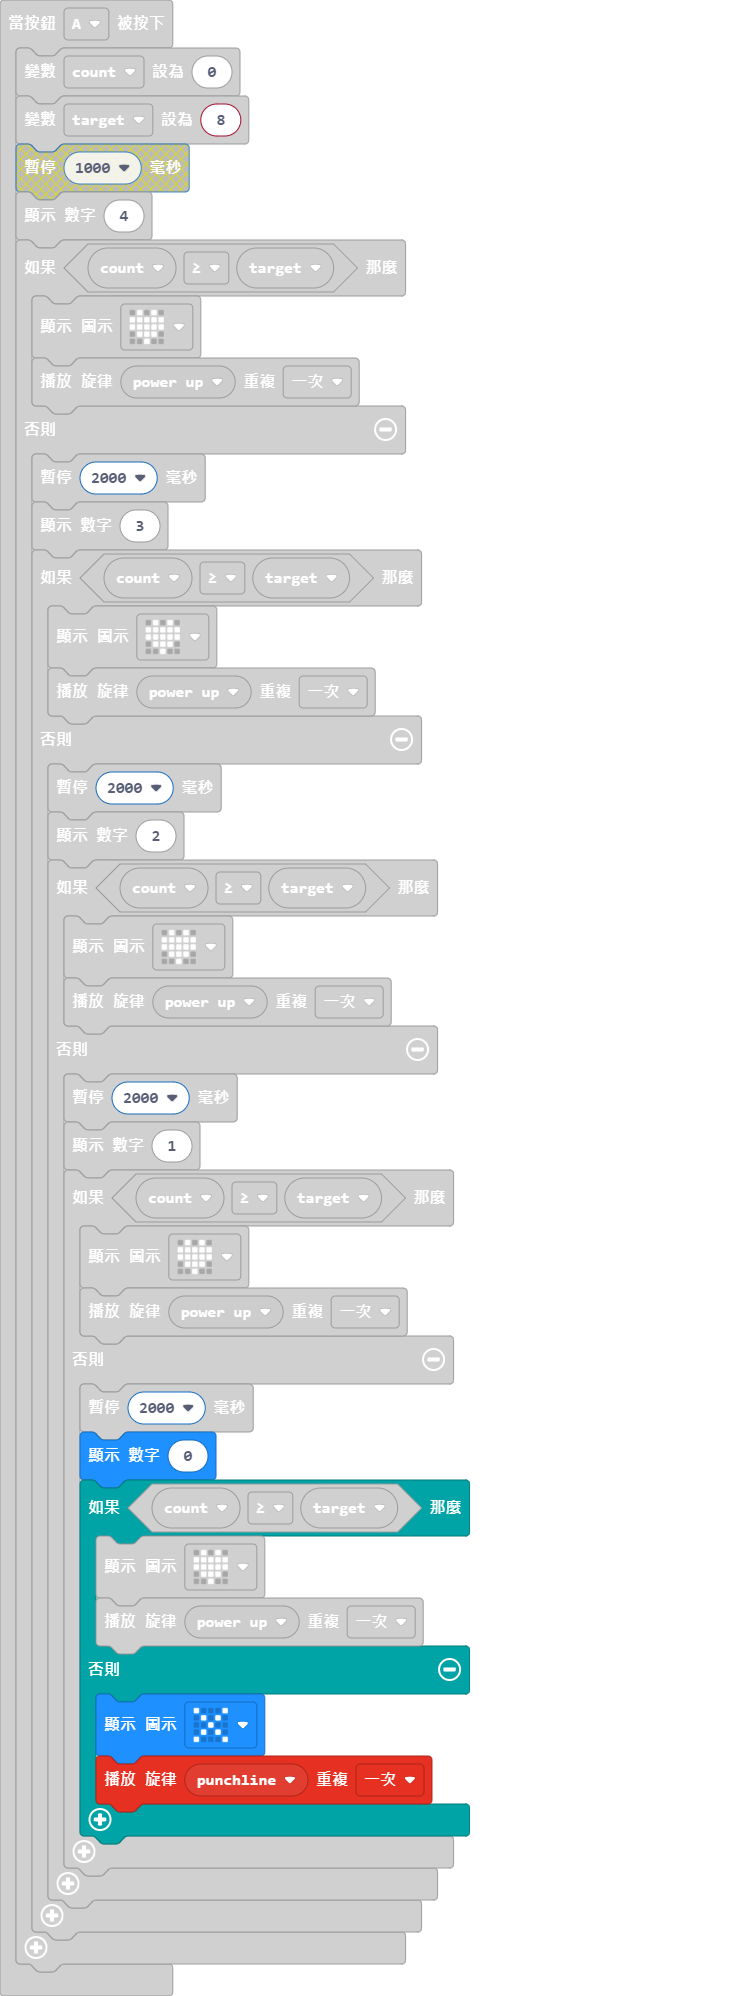
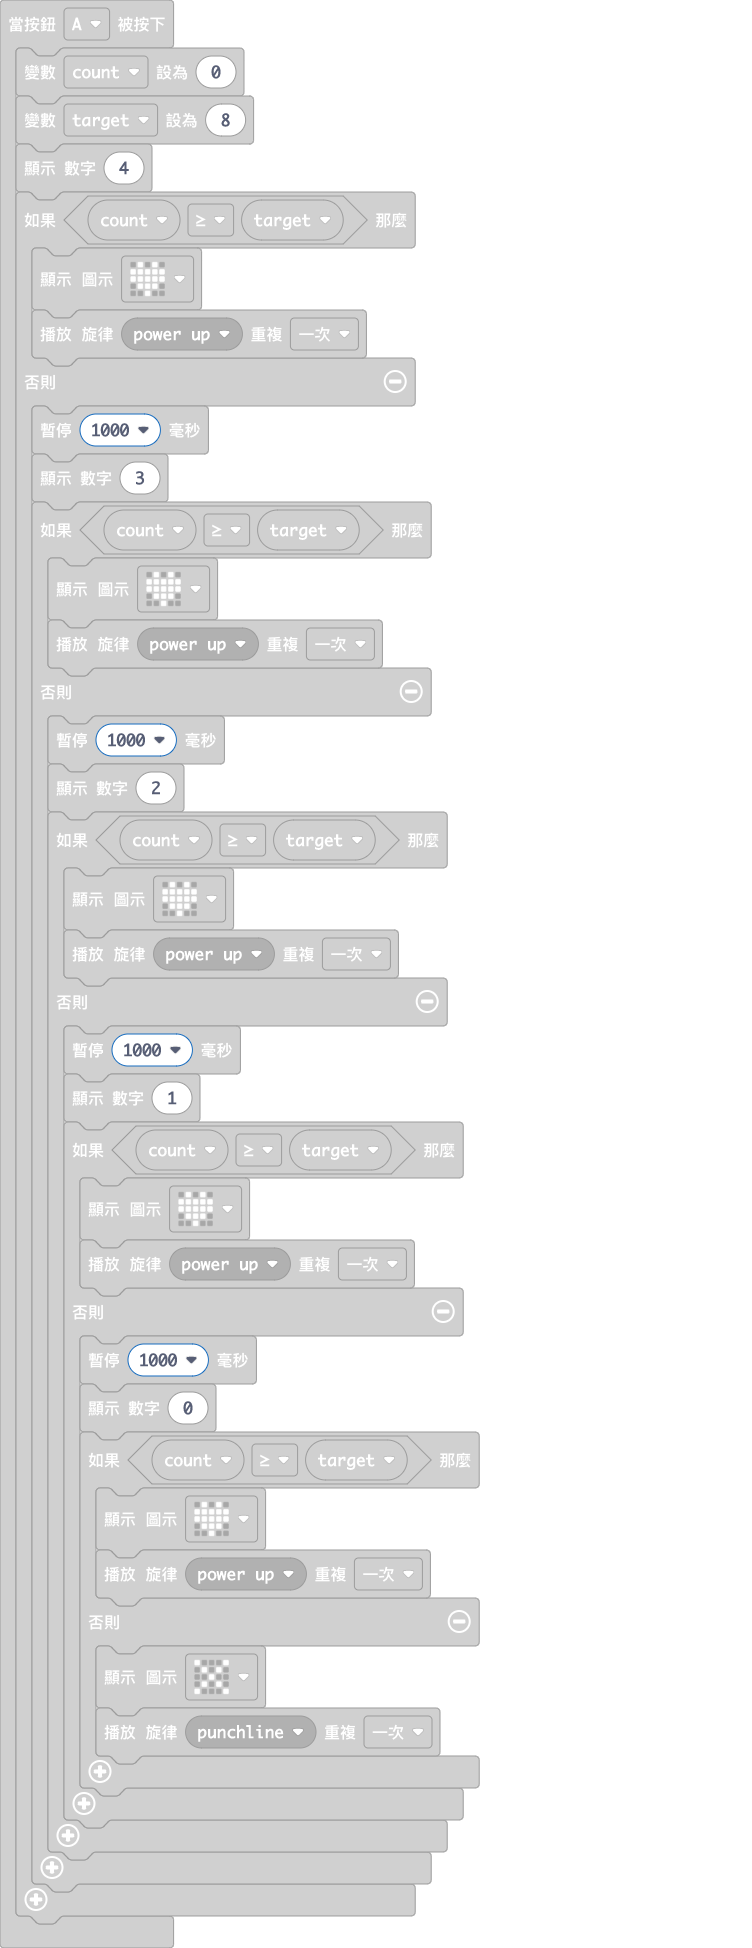
CHG waiting seconds

Changed region(s): [[0.0, 0.0, 0.6492, 0.9856], [0.2164, 0.9856, 0.2473, 1.0]]

diff --git a/main.ts b/main.ts
@@ -8,25 +8,25 @@ input.onButtonPressed(Button.A, function () {
         basic.showIcon(IconNames.Heart)
         music.startMelody(music.builtInMelody(Melodies.PowerUp), MelodyOptions.Once)
     } else {
-        basic.pause(2000)
+        basic.pause(1000)
         basic.showNumber(3)
         if (count >= target) {
             basic.showIcon(IconNames.Heart)
             music.startMelody(music.builtInMelody(Melodies.PowerUp), MelodyOptions.Once)
         } else {
-            basic.pause(2000)
+            basic.pause(1000)
             basic.showNumber(2)
             if (count >= target) {
                 basic.showIcon(IconNames.Heart)
                 music.startMelody(music.builtInMelody(Melodies.PowerUp), MelodyOptions.Once)
             } else {
-                basic.pause(2000)
+                basic.pause(1000)
                 basic.showNumber(1)
                 if (count >= target) {
                     basic.showIcon(IconNames.Heart)
                     music.startMelody(music.builtInMelody(Melodies.PowerUp), MelodyOptions.Once)
                 } else {
-                    basic.pause(2000)
+                    basic.pause(1000)
                     basic.showNumber(0)
                     if (count >= target) {
                         basic.showIcon(IconNames.Heart)
